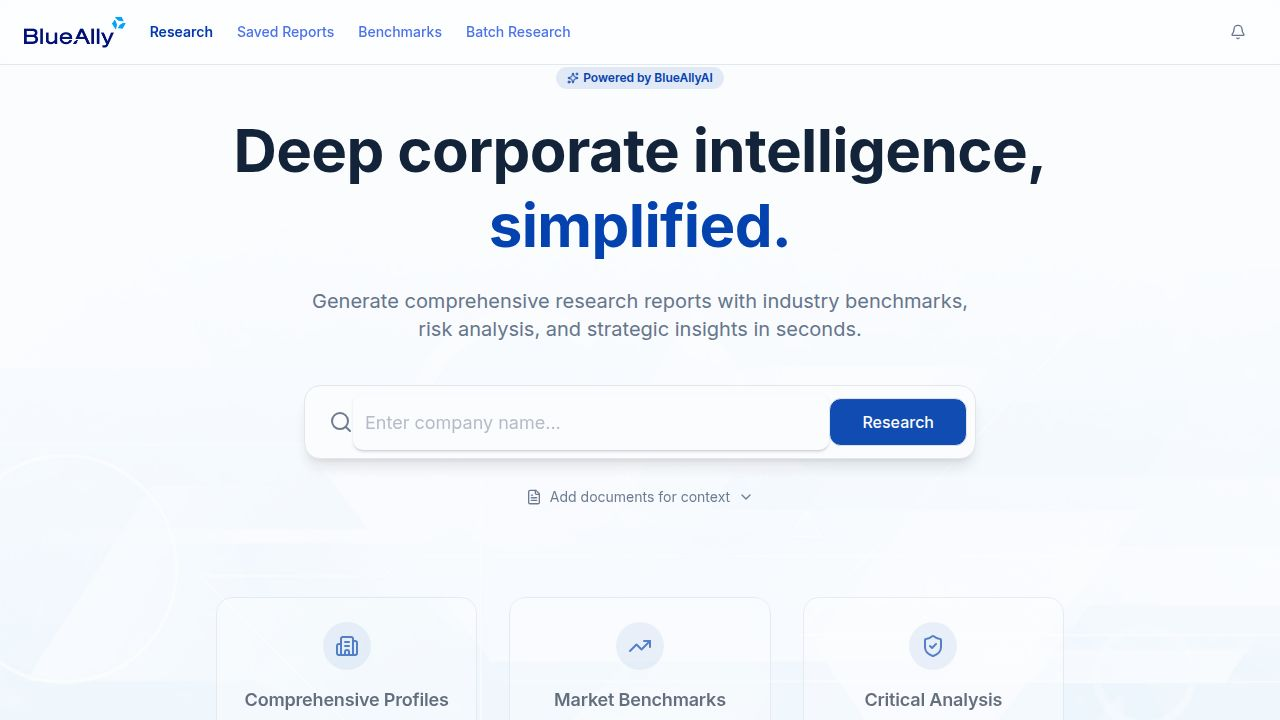
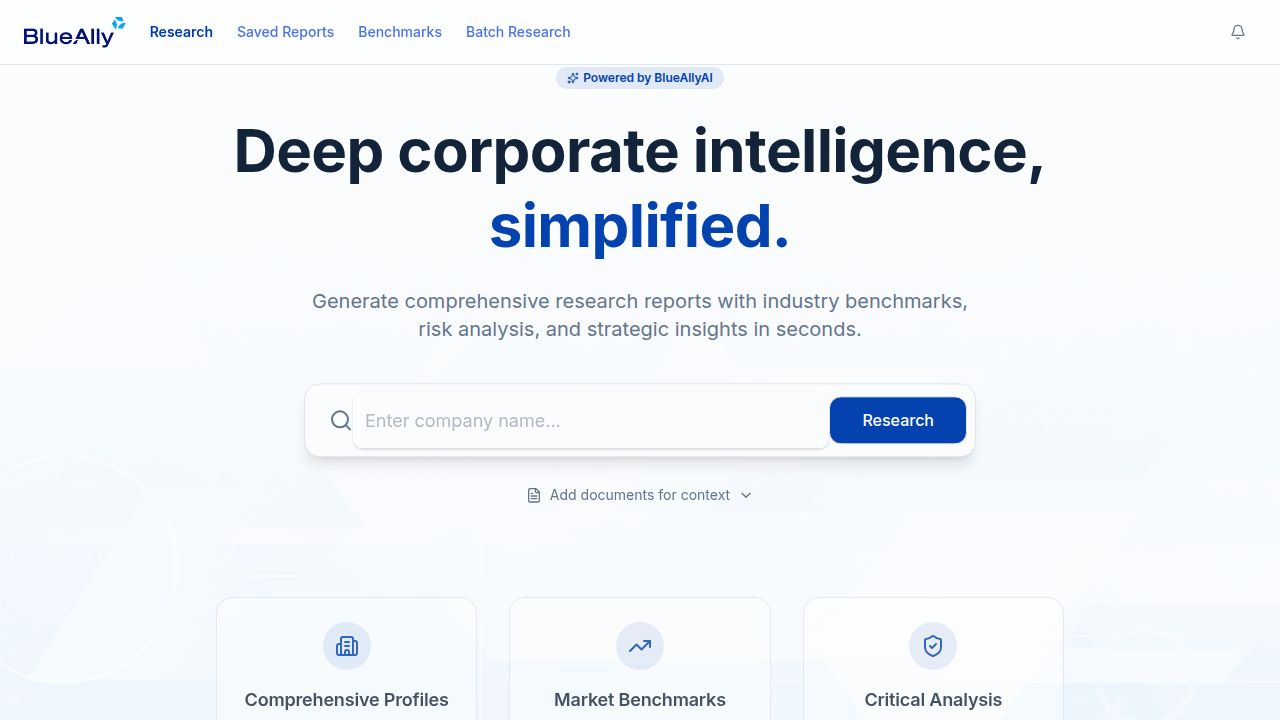
Improve the accuracy of displayed and exported hours across the application
Apply rounding to numerical hour values in UI components, PDF, Word, Markdown, and Excel exports, and also to the server-side calculation of annual hours.

Replit-Commit-Author: Agent
Replit-Commit-Session-Id: 51c88be6-2558-4e00-a3f2-33c6e077bc13
Replit-Commit-Checkpoint-Type: full_checkpoint
Replit-Commit-Event-Id: 322dd10d-fcd9-452d-afc1-3a3be9132649
Replit-Commit-Screenshot-Url: https://storage.googleapis.com/screenshot-production-us-central1/1e27ffa7-f896-4246-93be-0ee037a37eed/51c88be6-2558-4e00-a3f2-33c6e077bc13/S061nNN
Replit-Helium-Checkpoint-Created: true

diff --git a/client/src/pages/Report.tsx b/client/src/pages/Report.tsx
@@ -1219,6 +1219,10 @@ export default function Report() {
             if (typeof val === 'number' && col.toLowerCase().includes('$')) {
               return formatCurrency(val);
             }
+            // Round hours to whole numbers
+            if (typeof val === 'number' && col.toLowerCase().includes('hours')) {
+              return Math.round(val).toLocaleString();
+            }
             if (typeof val === 'number' && val > 1000) {
               return formatNumber(val);
             }
@@ -1593,6 +1597,10 @@ export default function Report() {
             // Handle different value types
             if (val === null || val === undefined) return '';
             if (typeof val === 'object') return JSON.stringify(val);
+            // Round hours to whole numbers
+            if (col.toLowerCase().includes('hours') && typeof val === 'number') {
+              return Math.round(val);
+            }
             // Preserve numbers, booleans, and strings as native types
             return val;
           });
@@ -1837,11 +1845,16 @@ export default function Report() {
           }),
           ...step.data.map((row: any) => 
             new DocxTableRow({
-              children: columns.map(col => 
-                new DocxTableCell({
-                  children: [new Paragraph({ text: String(row[col] || '').substring(0, 50), alignment: AlignmentType.CENTER })],
-                })
-              ),
+              children: columns.map(col => {
+                const val = row[col];
+                // Round hours to whole numbers
+                const formattedVal = col.toLowerCase().includes('hours') && typeof val === 'number'
+                  ? Math.round(val).toLocaleString()
+                  : String(val || '').substring(0, 50);
+                return new DocxTableCell({
+                  children: [new Paragraph({ text: formattedVal, alignment: AlignmentType.CENTER })],
+                });
+              }),
             })
           ),
         ];
@@ -1920,7 +1933,14 @@ export default function Report() {
         mdContent += `| ${columns.join(' | ')} |\n`;
         mdContent += `| ${columns.map(() => ':---:').join(' | ')} |\n`;
         step.data.forEach((row: any) => {
-          const values = columns.map(col => String(row[col] || '').substring(0, 40));
+          const values = columns.map(col => {
+            const val = row[col];
+            // Round hours to whole numbers
+            if (col.toLowerCase().includes('hours') && typeof val === 'number') {
+              return Math.round(val).toLocaleString();
+            }
+            return String(val || '').substring(0, 40);
+          });
           mdContent += `| ${values.join(' | ')} |\n`;
         });
         mdContent += `\n`;
@@ -2112,7 +2132,14 @@ export default function Report() {
           <tbody>
 `;
         step.data.forEach((row: any, idx: number) => {
-          html += `            <tr>${columns.map(c => `<td>${String(row[c] || '').substring(0, 60)}</td>`).join('')}</tr>\n`;
+          html += `            <tr>${columns.map(c => {
+            const val = row[c];
+            // Format hours as whole numbers
+            if (c.toLowerCase().includes('hours') && typeof val === 'number') {
+              return `<td>${Math.round(val).toLocaleString()}</td>`;
+            }
+            return `<td>${String(val || '').substring(0, 60)}</td>`;
+          }).join('')}</tr>\n`;
           
           // Add benefit breakdown for Step 5
           if (isBenefitsStep) {

diff --git a/server/calculation-postprocessor.ts b/server/calculation-postprocessor.ts
@@ -603,7 +603,7 @@ export function postProcessAnalysis(analysisResult: any): any {
         ...record,
         "Estimated Annual Cost ($)": formatMoney(frictionResult.value),
         "Cost Formula": frictionResult.formulaText,
-        "Annual Hours": frictionResult.annualHours,
+        "Annual Hours": Math.round(frictionResult.annualHours),
         "Hourly Rate": frictionResult.loadedHourlyRate,
         Severity: frictionResult.severity,
       });